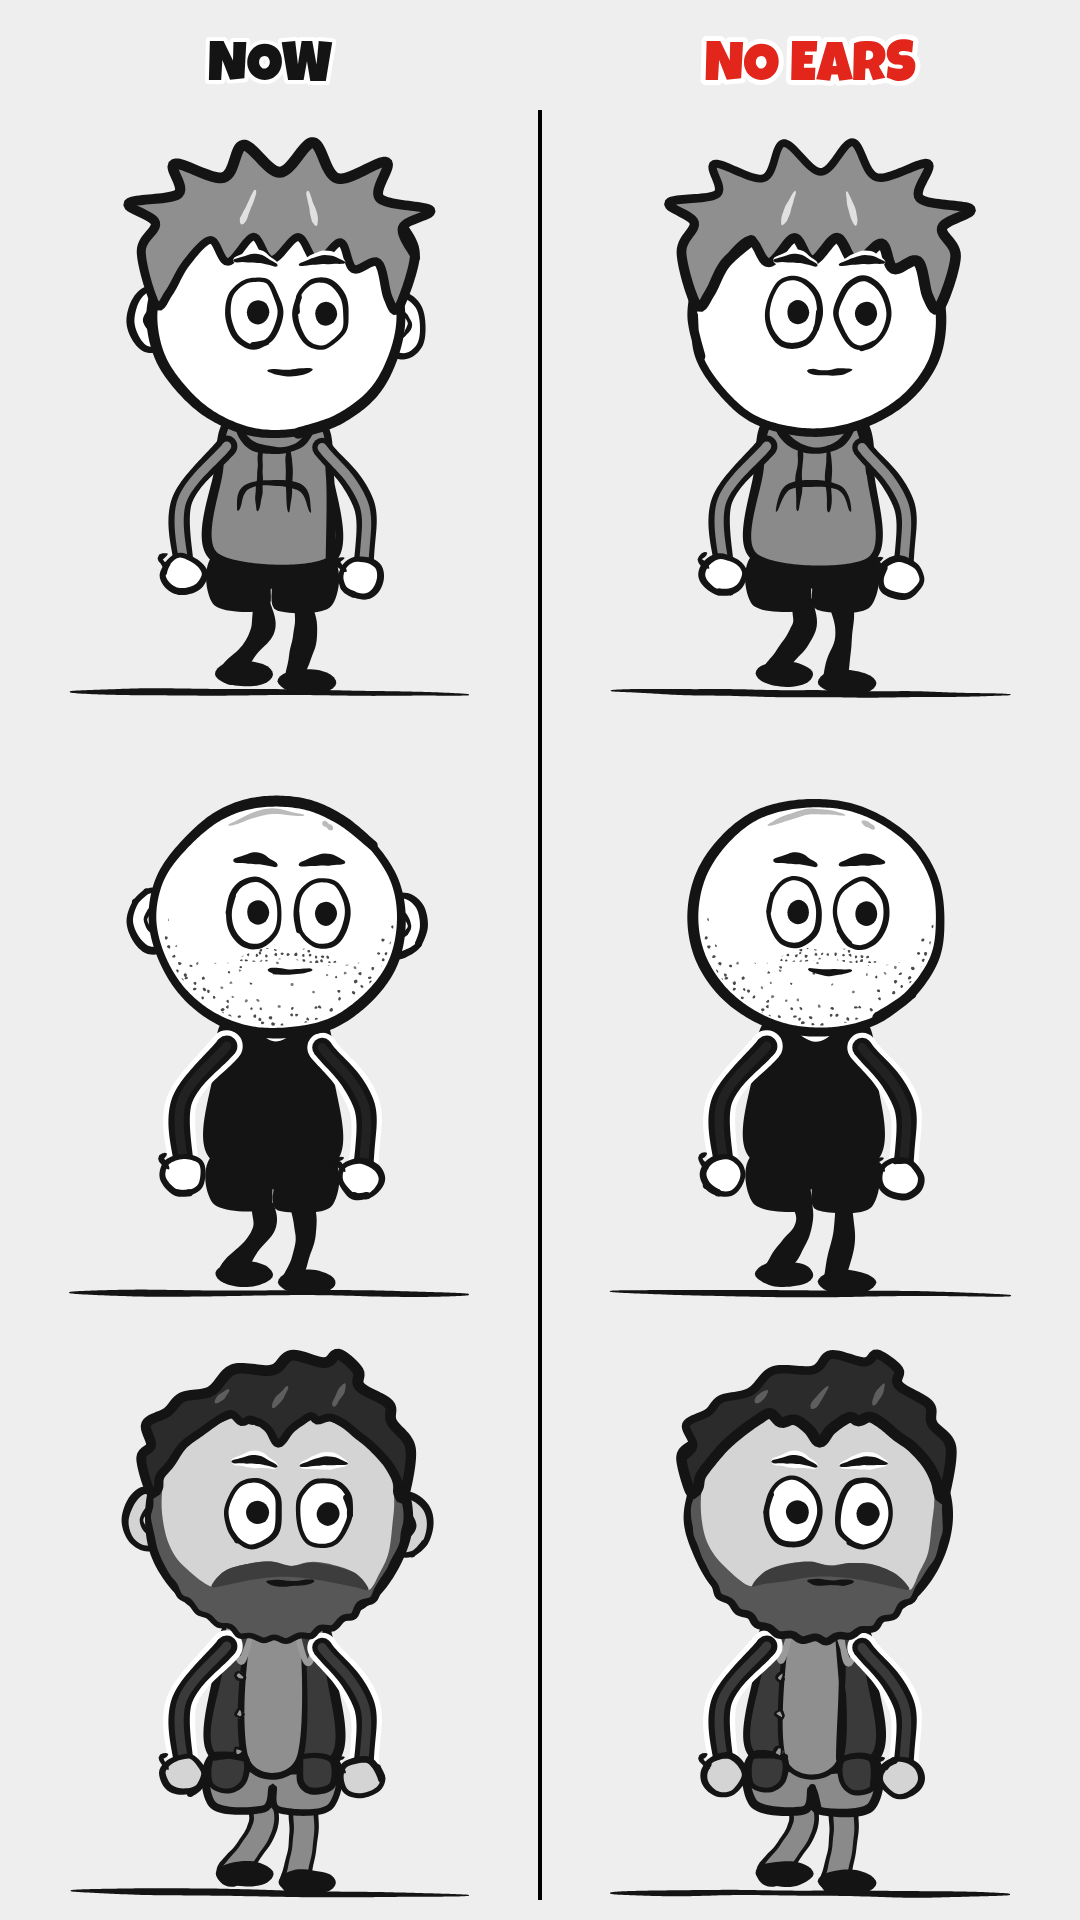
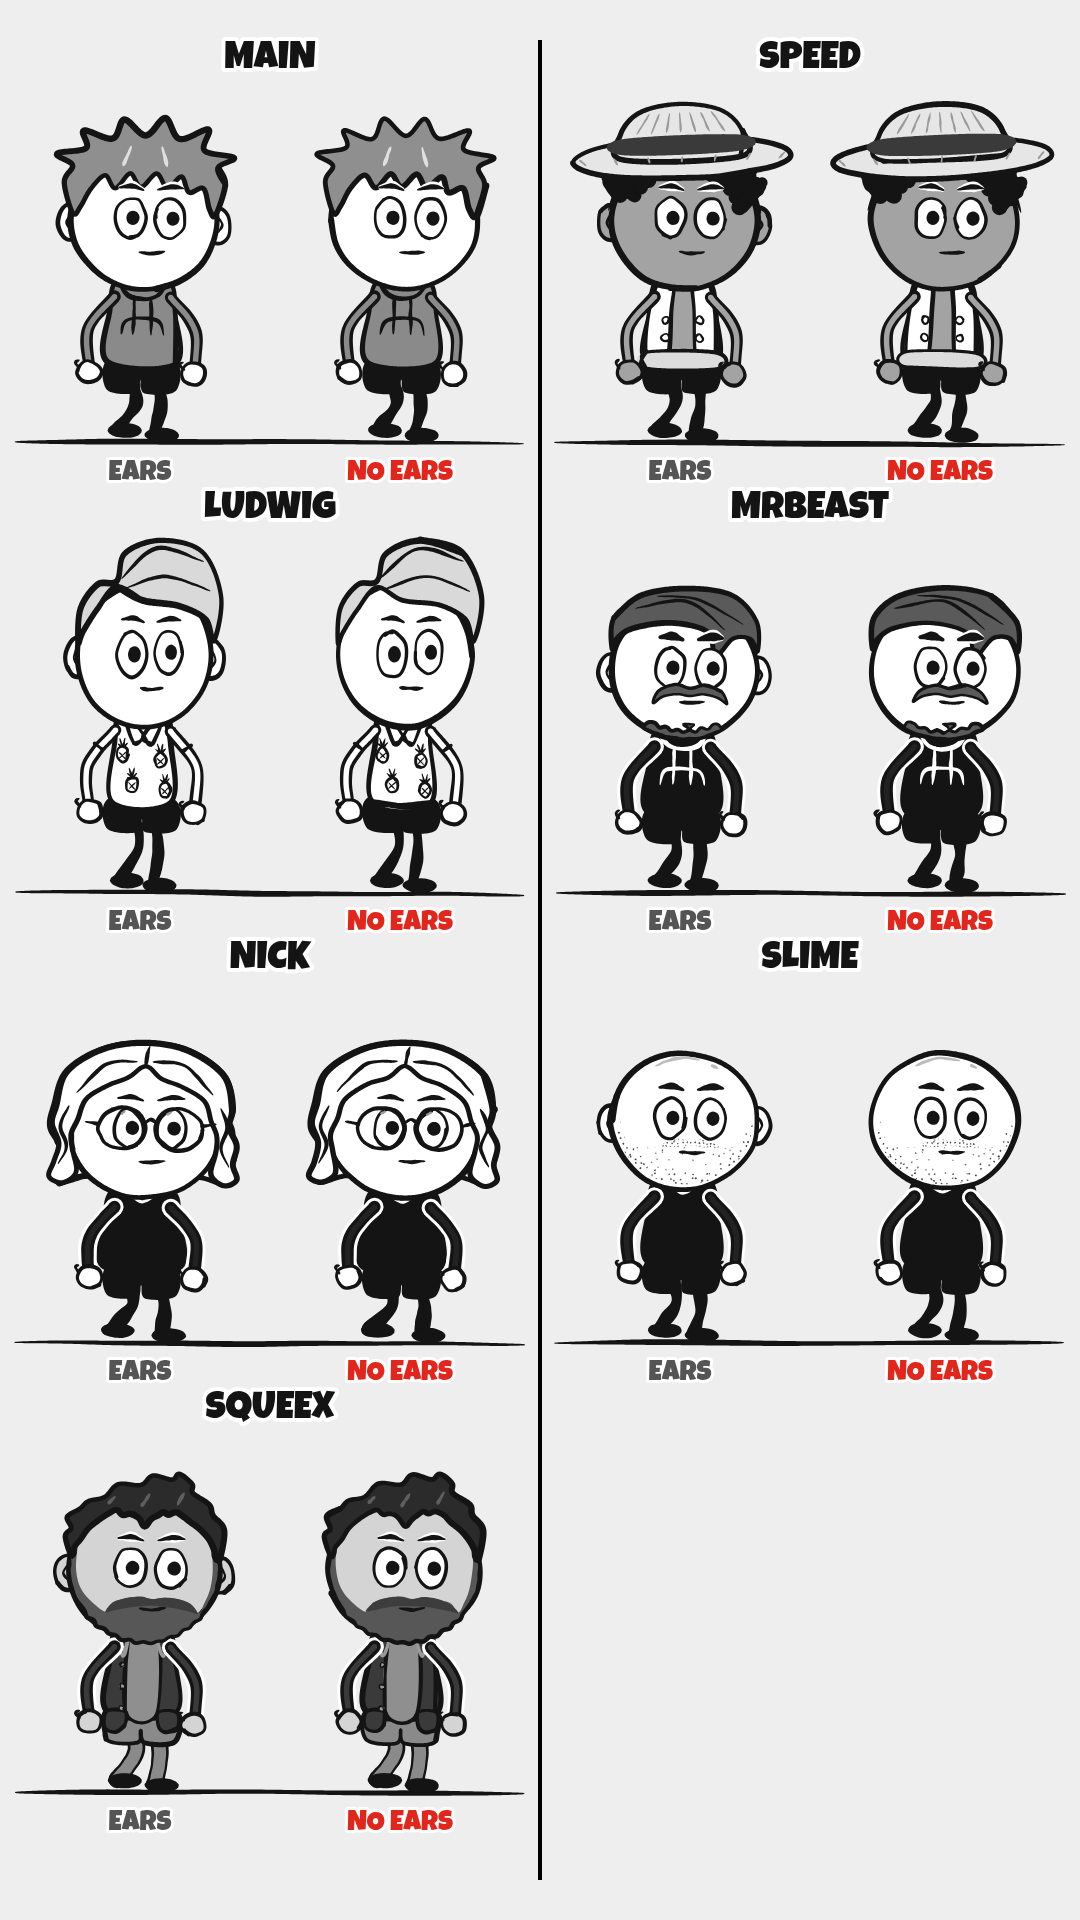
Ears preview: every cast character with and without ears (?skit=no_ears)
head() takes preview-only pose flags withEars / noEars; nothing renders
differently without them. Replaces the per-character Cameos.noEars drafts.

Claude-Session: https://claude.ai/code/session_01RKmGcx8q1V1rbfKyx6bNrn

diff --git a/web/cameos.js b/web/cameos.js
@@ -60,7 +60,10 @@ const Cameos = (() => {
       const st = p.stretch ?? 0;
       ctx.save();
       stretchHead(ctx, st);
-      o.back?.(ctx);   // behind the head: hoods, long hair
+      // previews only: p.noEars drops a character's ears, p.withEars adds plain ones in its skin tone
+      const hasEars = o.back === ears || o.back === sqEars;
+      if (!(p.noEars && hasEars)) o.back?.(ctx);   // behind the head: hoods, long hair
+      if (p.withEars && !hasEars) previewEars(ctx, o.skin ?? W);
       // a yell drops the jaw: the head stretches down and the mouth rides up
       // a little, so even a wide-open mouth stays inside the chin
       const rage = p.mouth === 'rage';
@@ -716,6 +719,13 @@ const Cameos = (() => {
   const nick = build({ shirt: INK, sleeve: '#222', head: head({ hair: nickMop, front: roundGlasses }),
     detail: (ctx, n) => stroke(ctx, [[-32, n + 2], [0, n + 24], [32, n + 2]], { w: 7, color: W }) });
 
+  const previewEars = (ctx, skin) => {
+    for (const side of [-1, 1]) {
+      const e = Brush.ellipsePts(side * RX * 1.0, 6, 26, 36, 10);
+      fill(ctx, e, skin, 0.4); outline(ctx, e, { w: 8 });
+      stroke(ctx, [[side * RX * 1.0, -12], [side * RX * 1.06, 6], [side * RX * 1.0, 22]], { w: 5 });
+    }
+  };
   // Slime: shaved head (light stubble), ears, short full beard + moustache, big grin.
   const ears = ctx => {
     for (const side of [-1, 1]) {
@@ -1452,15 +1462,5 @@ const Cameos = (() => {
     beards: { trimmed: sqC(beardTrim, stacheTrim), full: (draw => (ctx, p) => draw(ctx, sqFace(p)))(sqC(beardFull2, stacheFull2, { mouthDy: p => FULL_MOUTH_DY + (p.smallMouth ? 16 : 0) })), fullOld: sqC(beardFull, stacheFull), inked: sqC(beardInked, stacheInked) },
   };
 
-  // Drafts without ears (not used in any video yet): the main character, Slime
-  // and Squeex as they are now, minus the ears. Compare at ?skit=no_ears.
-  const noEars = {
-    main: (dr => (ctx, p) => dr(ctx, { mouth: 'smile', lid: 0, brow: 0, ...p }))(build({ shirt: '#8a8a8a', sleeve: '#8a8a8a',
-      head: head({ hair: outlineHair(...SPIKES, ...SHADES.brown.slice(0, 1), { lineColor: SHADES.brown[1] }) }), detail: hoodieFront })),
-    slime: build({ shirt: INK, sleeve: '#222', head: head({ hair: shaved, beard: shortBeard, front: slimeStache, browW: 12 }),
-      detail: (ctx, n) => stroke(ctx, [[-32, n + 2], [0, n + 24], [32, n + 2]], { w: 7, color: W }) }),
-    squeex: (draw => (ctx, p) => draw(ctx, sqFace(p)))(sqC(beardFull2, stacheFull2, { mouthDy: p => FULL_MOUTH_DY + (p.smallMouth ? 16 : 0), back: null })),
-  };
-
-  return { noEars, squeex, speed, ludwig, beast, nick: nickMidPart, nickOld: nickBack.same, slime, originals, originals2, men, spikyShades, spikyAccents, nickAlts, nickFlow, nickOutline, nickBack, nickMidPart, nickMidLayered, props: { cash, bigCheck }, parts: { build, head, hh, RX, RY } };
+  return { squeex, speed, ludwig, beast, nick: nickMidPart, nickOld: nickBack.same, slime, originals, originals2, men, spikyShades, spikyAccents, nickAlts, nickFlow, nickOutline, nickBack, nickMidPart, nickMidLayered, props: { cash, bigCheck }, parts: { build, head, hh, RX, RY } };
 })();

diff --git a/web/skits/no_ears.js b/web/skits/no_ears.js
@@ -1,34 +1,25 @@
-// Drafts: the main character, Slime and Squeex with their ears (left) and
-// without (right). Second 0 is the comparison sheet; seconds 1-3 are face
-// close-ups of each pair. Not used in any video.
+// Ears or no ears: every cast character in pairs, with ears (left of each pair)
+// and without (right). Characters that have no ears get plain preview ears in
+// their skin tone; the rest have theirs removed (pose flags withEars/noEars,
+// previews only). Not used in any video.
 Skits.no_ears = (() => {
-  const N = Cameos.noEars;
-  const CAST = [['MAIN', Hero.main, N.main], ['SLIME', Cameos.slime, N.slime], ['SQUEEX', Cameos.squeex.beards.full, N.squeex]];
-  const pose = { weight: 0.6, lean: 0.02 };
-  const ground = (ctx, x0, x1, y) => Brush.stroke(ctx, [[x0, y], [x1, y + 3]], { w: 6 });
+  const CAST = [['MAIN', Hero.main], ['SPEED', Cameos.speed], ['LUDWIG', Cameos.ludwig], ['MRBEAST', Cameos.beast],
+                ['NICK', Cameos.nick], ['SLIME', Cameos.slime], ['SQUEEX', Cameos.squeex.beards.full]];
+  const pose = { weight: 0.6, lean: 0.02, ...Emotions.neutral, lookX: 0.3 };
   return {
-    title: '', subtitle: '', duration: 4,
+    title: '', subtitle: '', duration: 1,
     draw(ctx, t) {
       ctx.fillStyle = '#eeeeee'; ctx.fillRect(0, 0, 1080, 1920);
-      const i = Math.floor(t);
-      if (i === 0) {
-        Stage.text(ctx, 'NOW', 270, 70, 56, 'Luckiest Guy', Brush.INK, 8);
-        Stage.text(ctx, 'NO EARS', 810, 70, 56, 'Luckiest Guy', '#e3261b', 10);
-        ctx.fillStyle = '#000'; ctx.fillRect(538, 110, 4, 1790);
-        CAST.forEach(([, now, none], r) => {
-          const y = 690 + r * 600;
-          for (const [x, draw] of [[270, now], [810, none]]) {
-            ground(ctx, x - 200, x + 200, y + 2);
-            draw(ctx, { t, x, y, s: 0.85, ...pose, ...Emotions.neutral, lookX: 0.3 });
-          }
-        });
-        return;
-      }
-      const [name, now, none] = CAST[Math.min(2, i - 1)];
-      Stage.text(ctx, `${name}: NOW`, 270, 150, 56, 'Luckiest Guy', Brush.INK, 8);
-      Stage.text(ctx, `${name}: NO EARS`, 810, 150, 56, 'Luckiest Guy', '#e3261b', 10);
-      for (const [x, draw] of [[270, now], [810, none]])
-        draw(ctx, { t, x, y: 1900, s: 1.6, ...pose, ...Emotions.neutral, lookX: 0.3 });
+      CAST.forEach(([name, draw], k) => {
+        const cx = k % 2 ? 810 : 270, y = 440 + Math.floor(k / 2) * 450;
+        Stage.text(ctx, name, cx, y - 380, 38, 'Luckiest Guy', Brush.INK, 8);
+        Stage.text(ctx, 'EARS', cx - 130, y + 34, 28, 'Luckiest Guy', '#555', 6);
+        Stage.text(ctx, 'NO EARS', cx + 130, y + 34, 28, 'Luckiest Guy', '#e3261b', 6);
+        Brush.stroke(ctx, [[cx - 255, y + 2], [cx + 255, y + 4]], { w: 5 });
+        draw(ctx, { t, x: cx - 130, y, s: 0.5, ...pose, withEars: true });
+        draw(ctx, { t, x: cx + 130, y, s: 0.5, ...pose, noEars: true });
+      });
+      ctx.fillStyle = '#000'; ctx.fillRect(538, 40, 4, 1840);
     },
   };
 })();
